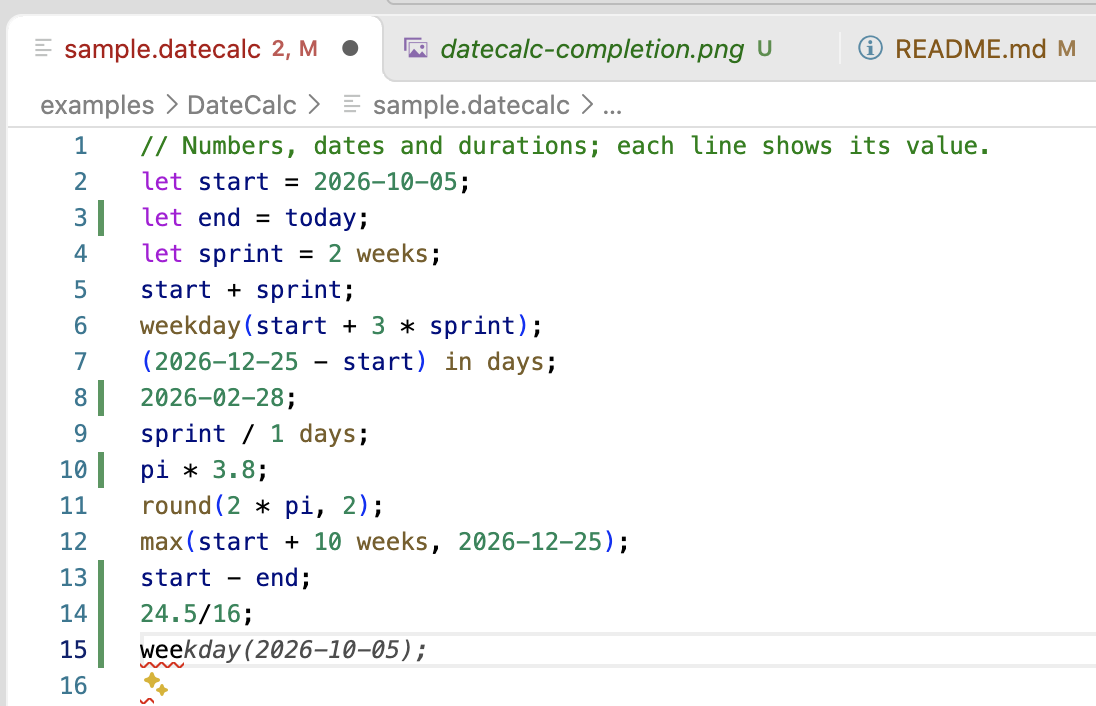
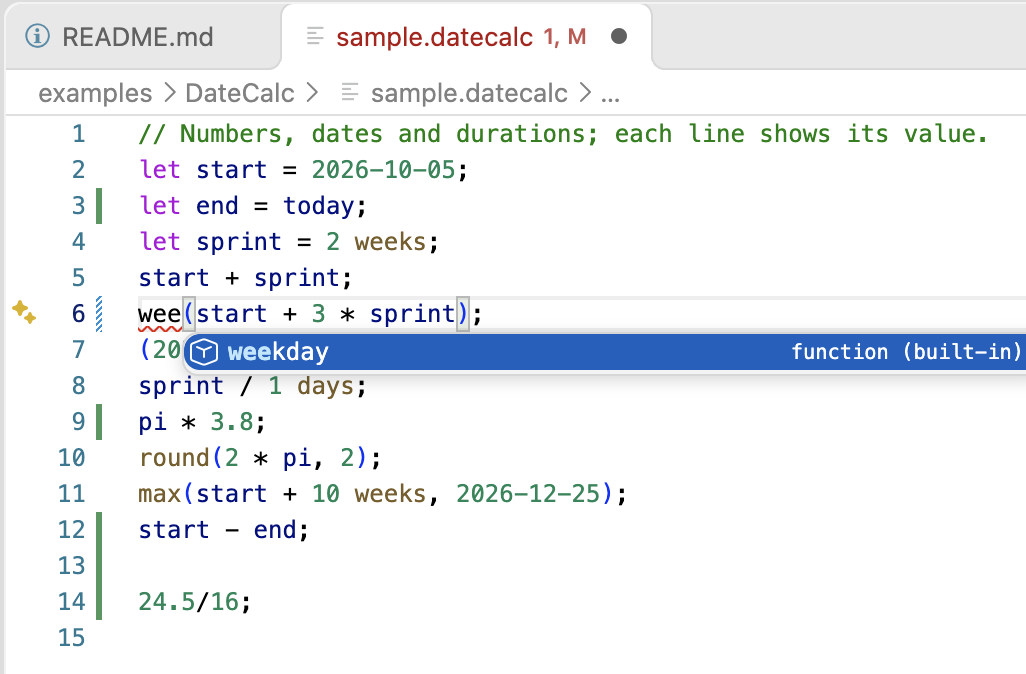
Recapture completion with Nitrogen's list open
The first capture showed Copilot's inline suggestion, not the language server's
completion. The new one shows the list offering weekday, a built-in function.

Changed region(s): [[0.0, 0.0, 1.0, 0.997], [0.0, 0.4362, 0.0312, 0.4674]]

diff --git a/README.md b/README.md
@@ -50,7 +50,7 @@ followed by its value:
 - **Coloring and completion** come from the grammar and the semantic modules: dates, durations,
   functions and constants are colored by kind, and completion offers names with their types.
 
-  ![Typing a call to weekday in sample.datecalc](docs/images/datecalc-completion.png)
+  ![Completing wee in sample.datecalc: Nitrogen's list offers weekday, a built-in function](docs/images/datecalc-completion.png)
 
 - **Hover** shows what an expression lowers to, and its value. Hovering `3 * sprint` shows
   `DateCalc.Duration · DateCalc.Times` and `= 42 days`.
